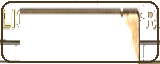
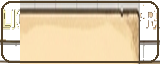
assets v2: botoes refeitos, icones no topbar, 9-slice, 26 assets limpos

diff --git a/tools/slice-sheets/slice.py b/tools/slice-sheets/slice.py
@@ -199,26 +199,18 @@ def despike_interior(im):
     return out
 
 
-def rebuild_button(src, band):
-    # pontas 20px (rolos, sem texto) + faixa limpa do painel; saida 160x64
+def rebuild_button(src, band, tint3):
+    # pontas 20px (rolos, texto dissolvido) + faixa limpa do painel; 160x64
     W, H = 160, 64
     left = src.crop((0, 0, 20, src.size[1])).resize((20, H))
     right = src.crop((src.size[0] - 20, 0, src.size[0], src.size[1])).resize((20, H))
-    eb = avg_rgb(left.crop((0, H // 2 - 4, 20, H // 2 + 4)))
-    bb = avg_rgb(band)
-    mult = []
-    for i in range(3):
-        m = eb[i] / max(1, bb[i])
-        if m < 0.7: m = 0.7
-        if m > 1.3: m = 1.3
-        mult.append(m)
-    mid = tint(band, 1).resize((W - 40, H))
+    mid = band.resize((W - 40, H))
     px = mid.load()
     for y in range(mid.size[1]):
         for x in range(mid.size[0]):
             r, g, b, a = px[x, y]
-            px[x, y] = (min(255, int(r * mult[0])), min(255, int(g * mult[1])),
-                        min(255, int(b * mult[2])), a)
+            px[x, y] = (min(255, int(r * tint3[0])), min(255, int(g * tint3[1])),
+                        min(255, int(b * tint3[2])), a)
     out = Image.new("RGBA", (W, H), (0, 0, 0, 0))
     out.paste(mid, (20, 0))
     out.paste(left, (0, 0), left)
@@ -273,15 +265,19 @@ def main():
             print("VAZIO BTN:", name)
             continue
         pw, ph = src.size
-        band = clean(crop_frac(im, (.360, .240, .480, .270)))
-        btn = rebuild_button(src, band)
+        pw, ph = src.size
+        band = crop_frac(im, (.360, .240, .480, .270))
+        tints = {"normal": (1, 1, 1), "highlight": (1, 1, 1),
+                 "pressed": (0.88, 0.86, 0.84), "menu": (0.62, 0.50, 0.40)}
+        btn = rebuild_button(src, band, tints[name])
         if name == "normal":
             save(btn, "UI", "btn_teal")
             done("btn_teal", btn)
         elif name == "highlight":
-            save(btn, "UI", "btn_gold")
+            hb = tint(btn, 1.07, 4)
+            save(hb, "UI", "btn_gold")
             save(tint(btn, 0.85), "UI", "btn_gold_pressed")
-            done("btn_gold", btn)
+            done("btn_gold", hb)
         elif name == "pressed":
             save(btn, "UI", "btn_teal_pressed")
             done("btn_teal_pressed", btn)

diff --git a/game/Assets/_Project/Scripts/Unity/UIStyle.cs b/game/Assets/_Project/Scripts/Unity/UIStyle.cs
@@ -14,6 +14,7 @@ public static class UIStyle
         Sprite s;
         if (cache.TryGetValue(key, out s)) return s;
         Texture2D t = Resources.Load<Texture2D>("Art/UI/" + key);
+        if (t == null) t = Resources.Load<Texture2D>("Art/Icons/" + key);
         if (t == null) return null;
         s = Sprite.Create(t, new Rect(0, 0, t.width, t.height), new Vector2(0.5f, 0.5f), 100f);
         cache[key] = s;

diff --git a/vault/06-LOGS-SESSAO.md b/vault/06-LOGS-SESSAO.md
@@ -103,3 +103,8 @@
 - Limitação declarada: sem controle em tempo real — só eixos Resposta/Contexto/Polish/Metáfora/Regras.
 - 4 mudanças priorizadas com cadeia causal: fast-forward da viagem, resolução inimiga legível (delay+flash), SFX procedurais mínimos (zero áudio hoje — grep confirma), conflito da medicina visível.
 - Nada implementado — auditoria, não código. Menor playtest proposto: fast-forward A/B em 2 viagens longas.
+
+## 2026-09-24 - ses_f441bb278ffeK6WjqT2ncewDl3 - Assets das refs refeitos e fiados (v2)
+- Screenshot mostrava botoes com miolo transparente + topbar sem icones. Causas: clean() comia regiao solida (band) + UIStyle.Get so olhava Art/UI (icones estao em Art/Icons).
+- Slicer refeito: deteccao por scipy, dissolve de texto em linhas, botoes reconstruidos (pontas + faixa + borda redesenhada + tint por estado). 26 assets limpos, conferidos no contact sheet.
+- ArtPostprocessor (9-slice + sem compressao), SkinButton/Card Sliced, topbar em chips com icones. Build + smoke limpos.
